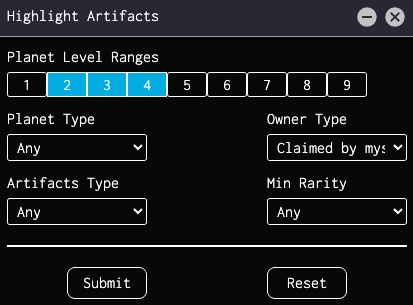
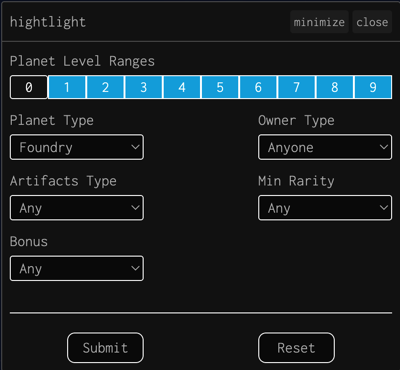
Add bonus filter

Changed region(s): [[0.0, 0.0, 1.0, 0.7672], [0.0, 0.7967, 0.99, 1.0], [0.63, 0.6492, 0.99, 0.7377]]

diff --git a/content/artifacts/easy-highlight-artifacts/plugin.js b/content/artifacts/easy-highlight-artifacts/plugin.js
@@ -25,6 +25,7 @@ const PLANET_LEVELS = Object.values(PlanetLevel).map((level) => ({
 const PLANET_ANY_TYPE = -1;
 const ARTIFACT_ANY_TYPE = -1;
 const ARTIFACT_ANY_RARITY = -1;
+const BONUS_ANY = -1;
 
 const PLANET_TYPES = [
   { value: PLANET_ANY_TYPE, text: "Any" },
@@ -40,9 +41,9 @@ const OwnerType = {
 
 const OWNER_TYPES_MAPPING = [
   { value: OwnerType.ANYONE, text: "Anyone" },
-  { value: OwnerType.UNCLAIMED, text: "Unclaimed" },
-  { value: OwnerType.CLAIMED_BY_OTHERS, text: "Claimed by others" },
-  { value: OwnerType.CLAIMED_BY_MYSELF, text: "Claimed by myself" },
+  { value: OwnerType.UNCLAIMED, text: "Nobody" },
+  { value: OwnerType.CLAIMED_BY_OTHERS, text: "Owned by others" },
+  { value: OwnerType.CLAIMED_BY_MYSELF, text: "Owned by myself" },
 ];
 
 const ARTIFACT_TYPES = [
@@ -61,6 +62,37 @@ const ARTIFACT_RARITIES = [
   ...Object.values(ArtifactRarity).filter((rarity) => rarity !== ArtifactRarity.Unknown).map((rarity) => ({ value: rarity, text: ArtifactRarityNames[rarity] }))
 ];
 
+const BONUS = [
+  {
+    value: BONUS_ANY,
+    text: "Any",
+  },
+  {
+    value: 0,
+    text: "Double Energy Cap",
+  },
+  {
+    value: 1,
+    text: "Double Energy Growth",
+  },
+  {
+    value: 2,
+    text: "Double Range",
+  },
+  {
+    value: 3,
+    text: "Double Speed",
+  },
+  {
+    value: 4,
+    text: "Double Defense",
+  },
+  {
+    value: 5,
+    text: "Half Junk",
+  },
+];
+
 function CreateSelectFilter({ items, selectedValue, onSelect }) {
   const selectStyle = {
     background: "rgb(8,8,8)",
@@ -71,16 +103,16 @@ function CreateSelectFilter({ items, selectedValue, onSelect }) {
   };
 
   return html`
-    <select
-      style=${selectStyle}
-      value=${selectedValue}
-      onChange=${(e) => onSelect(Number(e.target.value))}
-    >
-      ${items.map(
-        ({ value, text }) => html`<option value=${value}>${text}</option>`
-      )}
-    </select>
-  `;
+      <select
+        style=${selectStyle}
+        value=${selectedValue}
+        onChange=${(e) => onSelect(Number(e.target.value))}
+      >
+        ${items.map(
+    ({ value, text }) => html`<option value=${value}>${text}</option>`
+  )}
+      </select>
+    `;
 }
 
 function LevelFilter({ levels, selectedLevels, onSelectLevel }) {
@@ -112,28 +144,28 @@ function LevelFilter({ levels, selectedLevels, onSelectLevel }) {
   };
 
   const button = ({ value, text, onClick, selected = false }) => html`
-    <div
-      style=${selected ? buttonSelectedStyle : buttonStyle}
-      onClick=${() => onClick(value)}
-    >
-      ${text}
-    </div>
-  `;
+      <div
+        style=${selected ? buttonSelectedStyle : buttonStyle}
+        onClick=${() => onClick(value)}
+      >
+        ${text}
+      </div>
+    `;
   const inRange = (value) =>
     value <= Math.max(...selectedLevels) &&
     value >= Math.min(...selectedLevels);
   return html`
-    <div style=${buttonsRow}>
-      ${levels.map(({ value, text }) =>
-        button({
-          value,
-          text,
-          onClick: onSelectLevel,
-          selected: inRange(value),
-        })
-      )}
-    </div>
-  `;
+      <div style=${buttonsRow}>
+        ${levels.map(({ value, text }) =>
+    button({
+      value,
+      text,
+      onClick: onSelectLevel,
+      selected: inRange(value),
+    })
+  )}
+      </div>
+    `;
 }
 
 function createDivider() {
@@ -165,27 +197,28 @@ function createButton({ loading, onClick, ctaText }) {
 
   const [hover, setHover] = useState(false);
   return html` <button
-    disabled=${loading}
-    style=${{
+      disabled=${loading}
+      style=${{
       ...buttonStyle,
       ...(hover ? hoverStyle : {}),
     }}
-    onClick=${onClick}
-    onMouseEnter=${() => setHover(true)}
-    onMouseLeave=${() => setHover(false)}
-  >
-    ${ctaText}
-  </button>`;
+      onClick=${onClick}
+      onMouseEnter=${() => setHover(true)}
+      onMouseLeave=${() => setHover(false)}
+    >
+      ${ctaText}
+    </button>`;
 }
 
 // @ts-ignore
 let eligiblePlanets = [];
 
-function App({}) {
+function App({ }) {
   const [selectedLevels, setSelectedLevels] = useState([1, 9]);
   const [selectedPlanetType, setSelectedPlanetType] = useState(-1);
   const [selectedArtifactType, setSelectedArtifactType] = useState(-1);
   const [selectedArtifactRarity, setSelectedArtifactRarity] = useState(-1);
+  const [selectedBonus, setSelectedBonus] = useState(-1);
   const [selectedOwnerType, setSelectedOwnerType] = useState(
     OwnerType.CLAIMED_BY_MYSELF
   );
@@ -244,6 +277,14 @@ function App({}) {
         continue;
       }
 
+      // check bonus
+      if (
+        selectedBonus != BONUS_ANY &&
+        !planet.bonus[selectedBonus]
+      ) {
+        continue;
+      }
+
       // if artifact type or rarity selected, then we require a planet contain a artifact satisfying
       // requirements
       const mustHoldArtifacts =
@@ -280,6 +321,7 @@ function App({}) {
     selectedOwnerType,
     selectedArtifactType,
     selectedArtifactRarity,
+    selectedBonus,
   ]);
 
   const resetEligiblePlanets = useCallback(() => {
@@ -304,77 +346,70 @@ function App({}) {
   };
 
   const planetLevelFilter = html`<div style=${{ marginBottom: "3px" }}>
-      Planet Level Ranges
-    </div>
-    <${LevelFilter}
-      levels=${PLANET_LEVELS}
-      selectedLevels=${selectedLevels}
-      onSelectLevel=${(level) => {
-        if (selectedLevels.length == 2) {
-          setSelectedLevels([level]);
-        } else {
-          setSelectedLevels([level, selectedLevels[0]]);
-        }
-      }}
-    />`;
+        Planet Level Ranges
+      </div>
+      <${LevelFilter}
+        levels=${PLANET_LEVELS}
+        selectedLevels=${selectedLevels}
+        onSelectLevel=${(level) => {
+      if (selectedLevels.length == 2) {
+        setSelectedLevels([level]);
+      } else {
+        setSelectedLevels([level, selectedLevels[0]]);
+      }
+    }}
+      />`;
 
   const planetTypeFilter = html`<div>
-    <div style=${{ marginBottom: "3px" }}>Planet Type</div>
-    <${CreateSelectFilter}
-      items=${PLANET_TYPES}
-      selectedValue=${selectedPlanetType}
-      onSelect=${setSelectedPlanetType}
-    />
-  </div>`;
+      <div style=${{ marginBottom: "3px" }}>Planet Type</div>
+      <${CreateSelectFilter}
+        items=${PLANET_TYPES}
+        selectedValue=${selectedPlanetType}
+        onSelect=${setSelectedPlanetType}
+      />
+    </div>`;
 
   const ownerTypeFilter = html`
-    <div>
-      <div style=${{ marginBottom: "3px" }}>Owner Type</div>
-      <${CreateSelectFilter}
-        items=${OWNER_TYPES_MAPPING}
-        selectedValue=${selectedOwnerType}
-        onSelect=${setSelectedOwnerType}
-      />
-    </div>
-  `;
-
-  const planetUnionFilters = html`
-    <div
-      style=${{
-        ...flexRow,
-        justifyContent: "space-between",
-        marginTop: "10px",
-      }}
-    >
-      ${planetTypeFilter} ${ownerTypeFilter}
-    </div>
-  `;
+      <div>
+        <div style=${{ marginBottom: "3px" }}>Owner Type</div>
+        <${CreateSelectFilter}
+          items=${OWNER_TYPES_MAPPING}
+          selectedValue=${selectedOwnerType}
+          onSelect=${setSelectedOwnerType}
+        />
+      </div>
+    `;
 
   const artifactTypeFilter = html`<div>
-    <div style=${{ marginBottom: "3px" }}>Artifacts Type</div>
-    <${CreateSelectFilter}
-      items=${ARTIFACT_TYPES}
-      selectedValue=${selectedArtifactType}
-      onSelect=${setSelectedArtifactType}
-    />
-  </div>`;
+      <div style=${{ marginBottom: "3px" }}>Artifacts Type</div>
+      <${CreateSelectFilter}
+        items=${ARTIFACT_TYPES}
+        selectedValue=${selectedArtifactType}
+        onSelect=${setSelectedArtifactType}
+      />
+    </div>`;
 
   const artifactRarityFilter = html`
-    <div>
-      <div style=${{ marginBottom: "3px" }}>Min Rarity</div>
-      <${CreateSelectFilter}
-        items=${ARTIFACT_RARITIES}
-        selectedValue=${selectedArtifactRarity}
-        onSelect=${setSelectedArtifactRarity}
-      />
-    </div>
-  `;
+      <div>
+        <div style=${{ marginBottom: "3px" }}>Min Rarity</div>
+        <${CreateSelectFilter}
+          items=${ARTIFACT_RARITIES}
+          selectedValue=${selectedArtifactRarity}
+          onSelect=${setSelectedArtifactRarity}
+        />
+      </div>
+    `;
 
-  const artifactFilters = html`<div
-    style=${{ ...flexRow, justifyContent: "space-between", marginTop: "10px" }}
-  >
-    ${artifactTypeFilter} ${artifactRarityFilter}
-  </div>`;
+  const bonusFilter = html`
+      <div>
+        <div style=${{ marginBottom: "3px" }}>Bonus</div>
+        <${CreateSelectFilter}
+          items=${BONUS}
+          selectedValue=${selectedBonus}
+          onSelect=${setSelectedBonus}
+        />
+      </div>
+    `;
 
   const [loading, setLoading] = useState(false);
 
@@ -385,30 +420,41 @@ function App({}) {
   };
 
   const submitButton = html`<${createButton}
-    loading=${loading}
-    onClick=${highlightPlanet}
-    ctaText=${"Submit"}
-  />`;
+      loading=${loading}
+      onClick=${highlightPlanet}
+      ctaText=${"Submit"}
+    />`;
 
   const resetButton = html`<${createButton}
-    onClick=${resetEligiblePlanets}
-    ctaText=${"Reset"}
-  />`;
+      onClick=${resetEligiblePlanets}
+      ctaText=${"Reset"}
+    />`;
+
+  function row(...children) {
+    return html`<div
+      style=${{ ...flexRow, justifyContent: "space-between", marginTop: "10px" }}
+    >
+      ${children}
+    </div>`;
+  }
 
   return html`
-    ${planetLevelFilter} ${planetUnionFilters} ${artifactFilters}
-    <${createDivider} />
-    <div
-      style=${{
-        ...flexRow,
-        justifyContent: "space-around",
-        width: "100%",
-        marginTop: "10px",
-      }}
-    >
-      ${submitButton} ${resetButton}
-    </div>
-  `;
+      ${planetLevelFilter}
+      ${row(planetTypeFilter, ownerTypeFilter)}
+      ${row(artifactTypeFilter, artifactRarityFilter)}
+      ${row(bonusFilter)}
+      <${createDivider} />
+      <div
+        style=${{
+      ...flexRow,
+      justifyContent: "space-around",
+      width: "100%",
+      marginTop: "10px",
+    }}
+      >
+        ${submitButton} ${resetButton}
+      </div>
+    `;
 }
 
 //@ts-ignore

diff --git a/content/artifacts/easy-highlight-artifacts/index.md b/content/artifacts/easy-highlight-artifacts/index.md
@@ -1,6 +1,6 @@
 ---
 title: Easy Highlight Artifacts
-date: 2021-07-04T17:57:50-07:00
-subtitle: Highlight artifacts by several filters
-version: 0.6.4
+date: 2022-02-19T11:37:50
+subtitle: Highlight planets by several filters
+version: 0.6.5
 ---
